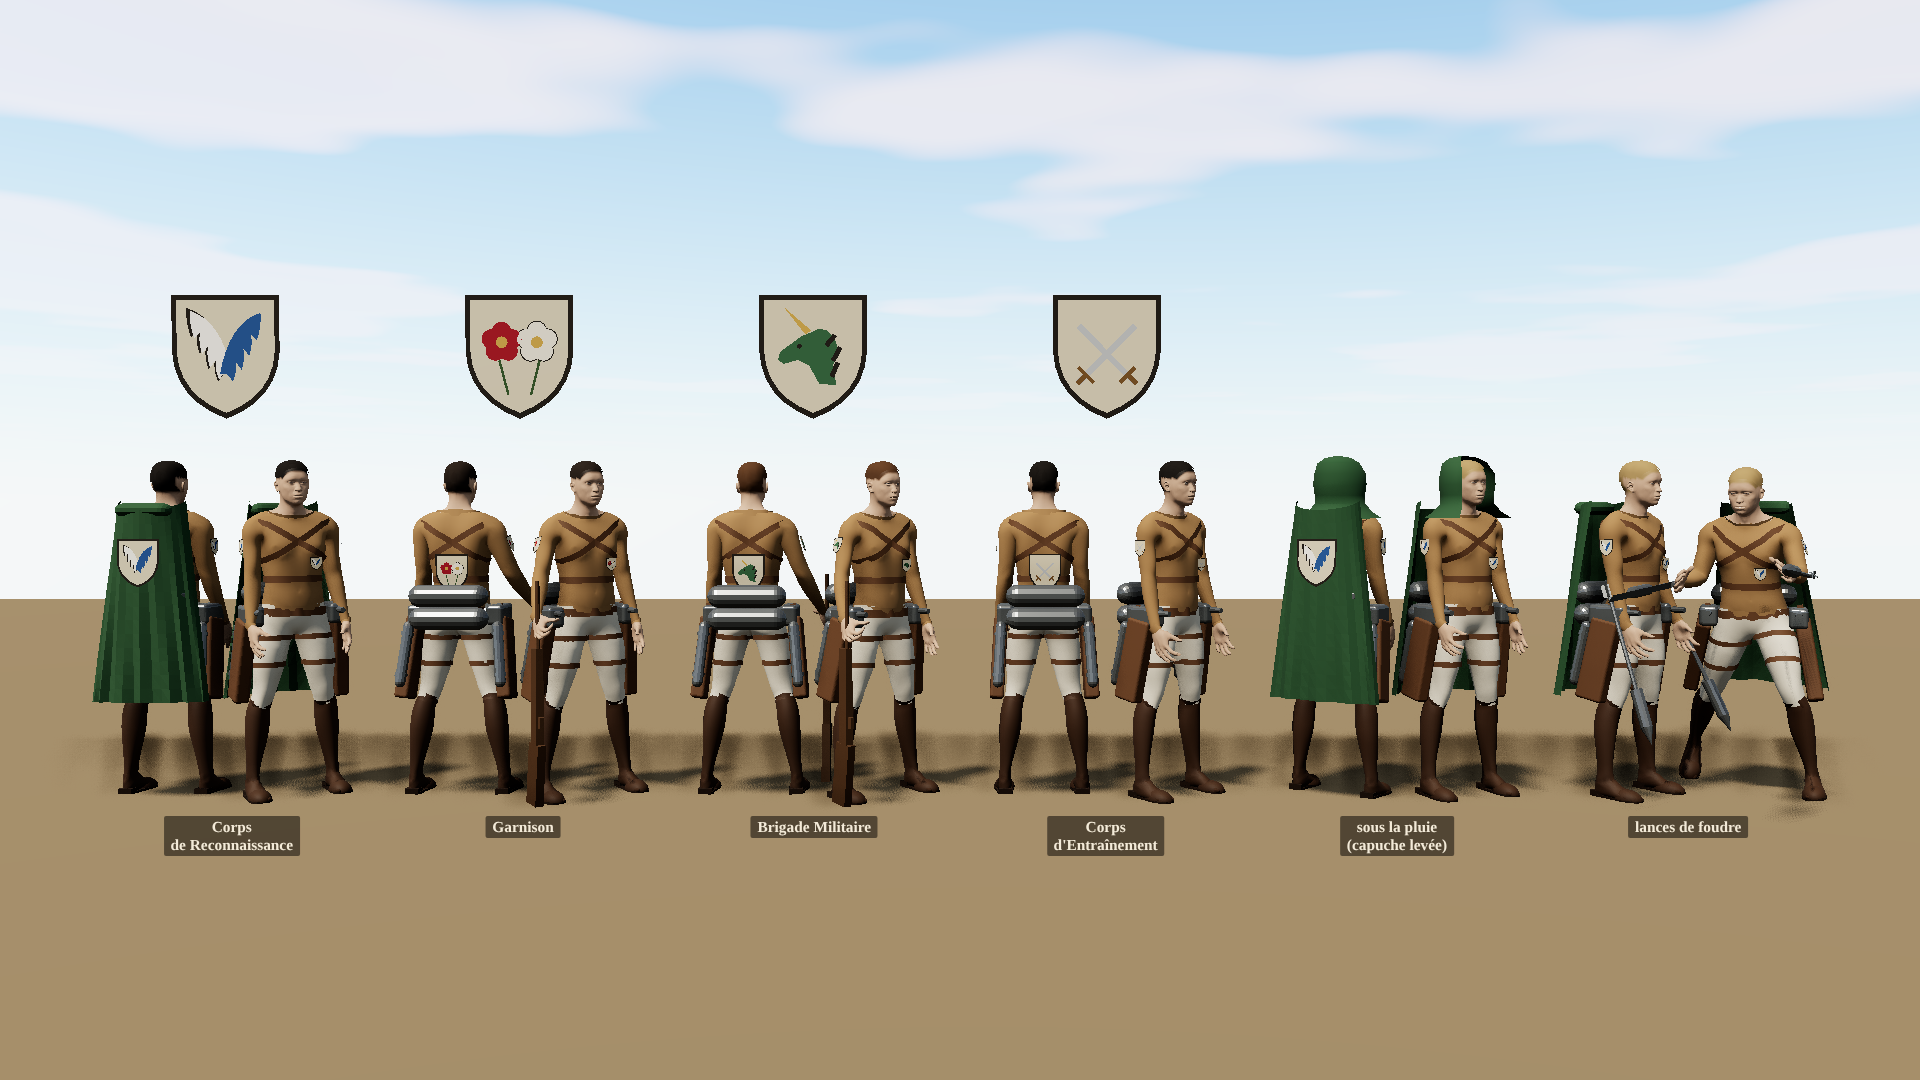
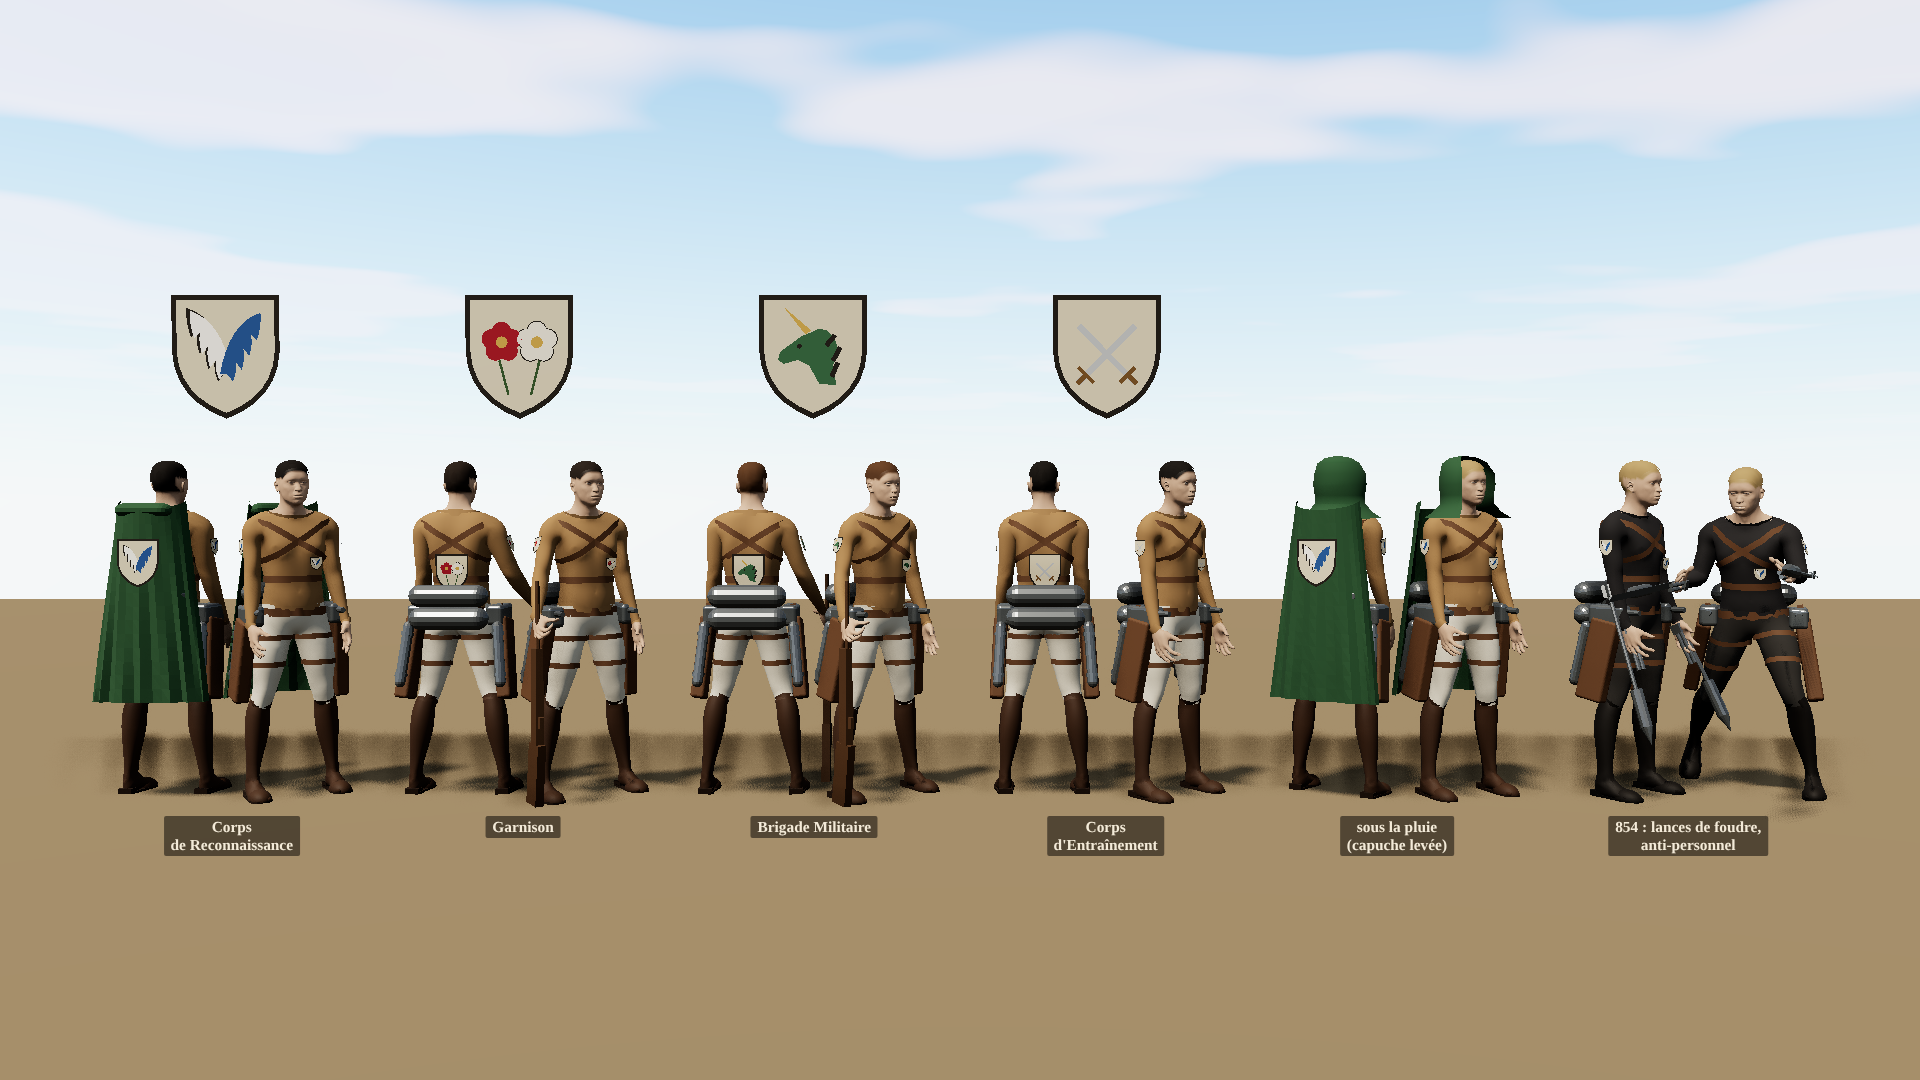
Dette n° 72 (suite) : équipement anti-personnel de 854 sur les poignées
Tenue de 854 : deux canons courts sur chaque poignée de l'équipement de manœuvre
(présence C, forme `?`), toujours portés ; les lames restent pour la coupe. Planche
r3-uniformes : colonne 854 (lances de foudre et canons). Test dédié.

npm run verify : 121 fichiers, 780 tests, EXIT=0.

Claude-Session: https://claude.ai/code/session_01QkVHPRrYAvmotTxhToJVAL

Changed region(s): [[0.8125, 0.4583, 0.9688, 0.7944]]

diff --git a/src/render/tactical3d/humanSoldier.ts b/src/render/tactical3d/humanSoldier.ts
@@ -214,6 +214,15 @@ export function buildHumanSoldier(t: HumanTemplate, seed: number, mats: SoldierM
     attach(`hand_${side}`, holder, hand.clone().addScaledVector(dir, 0.07 * k));
     holder.add(piece(gear("lame"), mats.steel, "lame"));
     blades.push(holder);
+    // Dette n° 72 : équipement anti-personnel de 854 (présence : C ; forme : ?) : deux canons courts sur la poignée, toujours
+    // portés (ils font partie de la poignée), dans l'axe de l'avant-bras.
+    if (outfit?.anti_personnel) {
+      const ap = new Object3D();
+      ap.name = "canons-ap";
+      ap.quaternion.copy(holder.quaternion);
+      attach(`hand_${side}`, ap, hand.clone().addScaledVector(dir, 0.04 * k));
+      ap.add(piece(gear("canons_ap"), mats.steel, "canons-ap"));
+    }
     // Dette n° 72 : lance de foudre le long de l'avant-bras (cachée tant que le soldat n'en porte pas : `setSpears`).
     const elbow = J(`lowerarm_${side}`);
     const spear = new Object3D();
@@ -592,7 +601,7 @@ export function buildHairCap(body: HumanBody, mat: Material, thickness: number, 
 
 // ——— Équipement du projet (formes de R1, refaites plus fines) ———
 
-type Gear = "reservoir" | "lanceur" | "fourreau" | "lame" | "bonbonne" | "lance";
+type Gear = "reservoir" | "lanceur" | "fourreau" | "lame" | "bonbonne" | "lance" | "canons_ap";
 const gearCache = new Map<Gear, BufferGeometry>();
 const at = (g: BufferGeometry, x: number, y: number, z: number, rx = 0, ry = 0, rz = 0): BufferGeometry =>
   g.applyMatrix4(new Matrix4().compose(new Vector3(x, y, z), new Quaternion().setFromEuler(new Euler(rx, ry, rz)), new Vector3(1, 1, 1)));
@@ -642,6 +651,16 @@ export function gear(k: Gear): BufferGeometry {
         at(new BoxGeometry(0.004, 0.07, 0.04), 0, 0.04, 0.02),
         at(new BoxGeometry(0.004, 0.07, 0.04), 0, 0.04, -0.02, 0, (2 * Math.PI) / 3, 0),
         at(new BoxGeometry(0.004, 0.07, 0.04), 0, 0.04, -0.02, 0, (-2 * Math.PI) / 3, 0),
+      ]);
+      break;
+    case "canons_ap":
+      // Canons de l'équipement anti-personnel (dette n° 72 ; forme redessinée par le projet : ?) : deux tubes courts accolés
+      // au-dessus de la poignée, une culasse et un pontet.
+      g = merge([
+        at(new CylinderGeometry(0.011, 0.011, 0.2, 10), 0.012, 0.1, 0.03),
+        at(new CylinderGeometry(0.011, 0.011, 0.2, 10), -0.012, 0.1, 0.03),
+        at(new BoxGeometry(0.05, 0.05, 0.035), 0, 0.0, 0.03),
+        at(new BoxGeometry(0.008, 0.035, 0.03), 0, -0.01, -0.005),
       ]);
       break;
     case "lame": {

diff --git a/src/render/tactical3d/r3Sheets.ts b/src/render/tactical3d/r3Sheets.ts
@@ -24,7 +24,7 @@ import { puffTexture, titanSkinTexture } from "./textures";
  * - r3-visages : six têtes de Titans de près (dents, yeux, expressions, deux peaux) ;
  * - r3-soldats : les sept tenues de face, puis de dos ;
  * - r3-uniformes (dette n° 72) : les quatre corps de Paradis de dos et de trois quarts, emblèmes agrandis au-dessus, et la
- *   cape sous la pluie (capuche levée) et les lances de foudre ;
+ *   cape sous la pluie (capuche levée), et la tenue de 854 (lances de foudre, équipement anti-personnel) ;
  * - r3-ceremonie (dette n° 72) : recrues en rangs au salut, un instructeur face à elles ;
  * - r3-fantassins (dette n° 62) : officiers de Paradis (Garnison, Brigade Militaire), Marley, Alliés et Hizuru ;
  * - r3-poses : soldats (marche, course, chute, coupe, tir, recharge, commandement, mort) et Titans ramenés à 2,4 m (marche, course, attaque,
@@ -211,18 +211,19 @@ export function buildR3Sheet(sheet: string, scene: Scene, t: HumanTemplate, eyeM
       s.setPose("attente", time);
     }
     out.labels.push({ text: "sous la pluie\n(capuche levée)", at: new Vector3(2.25, -0.12, 0) });
-    // Lances de foudre le long des avant-bras (dette n° 72), de trois quarts et en vol.
+    // 854 (dette n° 72) : tenue sombre, lances de foudre le long des avant-bras et canons anti-personnel sur les poignées, de
+    // trois quarts et en vol.
     for (const [dx, ry, pose] of [
       [-0.32, 0.6, "attente"],
       [0.32, -0.5, "frappe"],
     ] as const) {
-      const s = soldier("exploration", 71, 1.7);
+      const s = soldier("exploration_854", 71, 1.7);
       s.group.position.set(3.75 + dx, 0, 0);
       s.group.rotation.y = ry;
       s.setPose(pose, time);
       s.setSpears(2);
     }
-    out.labels.push({ text: "lances de foudre", at: new Vector3(3.75, -0.12, 0) });
+    out.labels.push({ text: "854 : lances de foudre,\nanti-personnel", at: new Vector3(3.75, -0.12, 0) });
     out.target.set(0, 1.3, 0);
     out.eye.set(0, 1.5, 7.6);
     out.fov = 40;

diff --git a/tests/render/tactical3d/r3-soldats.test.ts b/tests/render/tactical3d/r3-soldats.test.ts
@@ -231,6 +231,19 @@ describe("soldats de R3 : sept tenues (R3.2, dette n° 72)", () => {
     expect(named(soldiers.get("marley_infanterie") as HumanSoldier, "lance-foudre")).toHaveLength(0);
   });
 
+  it("équipement anti-personnel de 854 (dette n° 72) : deux canons sur chaque poignée, pour la tenue de 854 seulement", () => {
+    const s = soldiers.get("exploration_854") as HumanSoldier;
+    const list = named(s, "canons-ap").filter((o) => (o as unknown as { type: string }).type !== "Mesh");
+    expect(list.map(carrier).sort()).toEqual(["hand_l", "hand_r"]);
+    expect(outfit("exploration_854").anti_personnel).toBe(true);
+    for (const id of OUTFIT_IDS) if (id !== "exploration_854") expect(named(soldiers.get(id) as HumanSoldier, "canons-ap"), id).toHaveLength(0);
+    // Toujours portés (partie de la poignée), au repos comme au combat.
+    for (const pose of ["attente", "frappe", "vol"] as const) {
+      s.setPose(pose, 0.3);
+      expect(list.every((o) => (o as unknown as { visible: boolean }).visible), pose).toBe(true);
+    }
+  });
+
   it("au tir, le fusil est dans les mains (crosse à la main droite, canon vers la main gauche) ; pieds au sol", () => {
     // Fantassins de Paradis (Garnison, dette n° 72) : le fusil passe du dos aux mains pour tirer.
     const g = soldiers.get("garnison") as HumanSoldier;

diff --git a/src/data/artSchemas.ts b/src/data/artSchemas.ts
@@ -304,6 +304,8 @@ const Outfit = z
     coiffe: Headgear.optional(),
     odm: z.boolean(),
     lames: z.enum(["mains", "fourreau"]).optional(),
+    /** Équipement anti-personnel de 854 (dette n° 72) : canons courts sur les poignées de l'équipement de manœuvre. */
+    anti_personnel: z.boolean().optional(),
     fusil: z.enum(["dos", "mains"]).optional(),
     sac: Hex.optional(),
     /** Emblème du corps (dette n° 72) : dos, haut des manches, poche de poitrine ; sur la cape au dos si elle en a une. */

diff --git a/docs/reports/dette.md b/docs/reports/dette.md
@@ -82,7 +82,7 @@ Format : **quoi** — où — gravité (faible / moyenne / forte). Tag `LC-repor
 | 69 | Fonctions P2 du fichier 09 non faites, report confirmé (D-161) : F-LOG-10, F-POL-15, F-TEC-05, F-TIT-10, F-EXP-19, F-CMB-20, F-EVT-05, F-EVT-14, F-SYS-06, F-DEV-03, F-DEV-04 ; F-STR-09, 10, 11, 19 ; F-ECO-17 ; F-LOG-06 ; F-POP-08, 12, 18 ; F-POL-07, 09 ; F-ADV-04, 05, 09 ; F-INT-05 à 09 ; F-TEC-04, 06, 09, 10 ; F-CHR-08, 11, 15, 19 ; F-EXP-08 ; F-CMB-12, 17 ; F-UIX-05, 06, 22 ; F-DEV-02 | `docs/CONFORMITE.md` §5 | moyenne | P10 |
 | 70 | Écarts partiels de l'audit (D-161) : ordres diversion, évacuer, incendier (C-08) ; code des fusées de la Garnison (03 §7) ; menu au clic droit de la carte (04 §3) ; aube et crépuscule en bataille (03 §1, 04 §4) ; anglais partiel (112 clés) ; overlays de debug tactiques (03 §14) ; difficulté sans effet dans la bataille tactique ; 11 bâtiments pour un quota de 25 (05 §3) ; batailles d'expédition sur l'écran 2D (dette n° 46) | `docs/CONFORMITE.md` §7–§8 | moyenne | P10 |
 | 71 | P10.3 : bataille temps réel (341 unités) « prêt » en 4,5 s en qualité basse au rendu logiciel, contre 3 s visés pour la scène tactique (D-93) ; pas d'optimisation pour le rendu logiciel (consigne R1e) : à mesurer sur GPU réel | `npm run smoke:r2` avec `R2_PARTIES=1 R2_QUALITE=bas` ; `docs/reports/P10-mesures-r2-bas.log` | moyenne | P10 |
-| 72 | Tenues des soldats à refaire selon `CLAUDE.md` § Style des soldats (décision de l'utilisateur, 2026-10-10) : uniforme commun brun clair et blanc, harnais de sangles, emblèmes des quatre corps redessinés, cape verte du Corps de Reconnaissance, équipement de manœuvre détaillé, salut et cérémonies, tenues de 854 et de Marley ; remplace les tenues inventées de R3 | `src/render/tactical3d/humanOutfit.ts`, `data/art/`, planches `r3-soldats` | forte | P10 (demande de l'utilisateur) ; **fait pour l'essentiel** (D-165 : uniforme commun, emblèmes, cape et capuche de pluie, bonbonnes, salut, cérémonie, brassard, foule de bataille) ; reste : équipement anti-personnel, cérémonie des médailles (Historia : aucune figure de la reine), capuche liée à une météo de bataille (absente) ; semelles, talons et bouts des bottes faits (dettes-suite) ; lances de foudre, tenue sombre de 854 (D-170) remise des diplômes (E09) et assemblée d'Erwin (choix du corps) en 3D depuis leurs dossiers, sur la place d'armes d'un camp (E24), **ajoutées** (moyenne) |
+| 72 | Tenues des soldats à refaire selon `CLAUDE.md` § Style des soldats (décision de l'utilisateur, 2026-10-10) : uniforme commun brun clair et blanc, harnais de sangles, emblèmes des quatre corps redessinés, cape verte du Corps de Reconnaissance, équipement de manœuvre détaillé, salut et cérémonies, tenues de 854 et de Marley ; remplace les tenues inventées de R3 | `src/render/tactical3d/humanOutfit.ts`, `data/art/`, planches `r3-soldats` | forte | P10 (demande de l'utilisateur) ; **fait pour l'essentiel** (D-165 : uniforme commun, emblèmes, cape et capuche de pluie, bonbonnes, salut, cérémonie, brassard, foule de bataille) ; reste : cérémonie des médailles (Historia : aucune figure de la reine), capuche liée à une météo de bataille (absente) ; semelles, talons et bouts des bottes, équipement anti-personnel de 854 faits (dettes-suite) ; lances de foudre, tenue sombre de 854 (D-170) remise des diplômes (E09) et assemblée d'Erwin (choix du corps) en 3D depuis leurs dossiers, sur la place d'armes d'un camp (E24), **ajoutées** (moyenne) |
 | 73 | `smoke:r1` (essai de rendu de R1) au rendu logiciel : le contrôle « suivi d'escouade » compte 3 s réelles alors que le suivi avance par image (≈ 2 s par image en qualité moyenne : cible à 4,5 m au lieu de 2,5 m) ; les captures en 3840×2160 dépassent 40 min. (`smoke:r1b` passe : 513 contrôles en ≈ 45 min.) À rejouer sur GPU réel | `src/tools/smoke-r1.ts`, `docs/reports/P10-smoke-r1.log` | faible | P10 |
 | 74 | Bataille temps réel : décor en boîtes à toits à deux pans, façades unies sans fenêtres ni matériaux du profil de style (seul le sol a une photo) ; écart avec la priorité « scènes et environnements réalistes et travaillés » (CLAUDE.md, R1c) | `src/render/tactical3d/battle/world.ts` ; `r2-suivi-1920`, `r3-bataille-paradis-1366` | forte | contrôle de conformité de la 3D (`docs/reports/CONFORMITE-3D.md`) ; **corrigé** (D-166 : façades, fenêtres, toits et cheminées du profil de style, pavés en ville) ; reste le mur autour de la ville (n° 55) |
 | 75 | Bataille 3D : ni bâtiment translucide quand il masque l'unité survolée ou choisie (15 C-06, 18 R4.4), ni icônes gaz / lames / stress au-dessus des escouades (04 §4, 15 C-17) | `src/render/tactical3d/battle/view3d.ts` | moyenne | contrôle de conformité de la 3D ; **corrigé** (D-167 : trame translucide des bâtiments qui cachent les unités choisies ; jauges gaz, lames, stress des escouades choisies ou en alerte) ; survol non traité (pas de survol d'unité dans l'interface) |

diff --git a/docs/CANON_CHECK.md b/docs/CANON_CHECK.md
@@ -220,7 +220,7 @@ Voir 11 §9 et 01 §10 : dates de mort d'Eld, Gunther, Oluo, Petra, Moblit, Past
 | Salut : poing droit fermé sur le cœur, main gauche dans le dos | C | `humanAnim.ts` (`salut`) | mise en scène de la planche `r3-ceremonie` : A |
 | Brassard des Eldiens de Marley à étoile à neuf branches | C ; bras et couleurs ? | `data/art/figures_r3.json` (`marley_infanterie`) | Q18 |
 | Uniformes de l'armée de Marley, fusils de la Garnison et de la Brigade Militaire | A | idem | choix de jeu, jamais présentés comme canon |
-| Tenues sombres du Corps en 854 ; lances de foudre | C (présence) ; coupe, teintes, absence de cape `?` ; forme des lances A | `data/art/figures_r3.json` (`exploration_854`), `humanSoldier.ts` | D-170 ; Q18 |
+| Tenues sombres du Corps en 854 ; lances de foudre ; équipement anti-personnel | C (présence) ; coupe, teintes, absence de cape `?` ; forme des lances A ; forme des canons anti-personnel `?` | `data/art/figures_r3.json` (`exploration_854`), `humanSoldier.ts` | D-170 ; Q18 |
 | Brigade Militaire à l'intérieur du mur Sina ; officiers de Paradis au même uniforme que leurs hommes | C (rôle, uniforme commun) ; règle de rendu par région, officier sans fusil, pistolet A | `data/art/figures_r3.json` (`fantassins_paradis`, `variantes`) | D-171 |
 | Uniformes des Alliés et de la garde d'Hizuru | ? (teintes sable et bleu nuit choisies par le projet) | idem (`variantes`) | D-171 ; Q18 |
 

diff --git a/docs/reports/dettes-suite.md b/docs/reports/dettes-suite.md
@@ -82,3 +82,14 @@ Les corrections de la 3D (n° 74, 75, 55) sont décrites dans `CONFORMITE-3D.md`
   bout arrondi de face ; plus d'orteils lisibles.
   - Défauts : bout de botte un peu gonflé (forme de sabot) ; semelle plate sans cambrure ; jointure nette entre la
     semelle avant et la semelle arrière quand le pied plie ; quelques points de peau qui percent encore sur un pied.
+
+## Dette n° 72 (suite) : équipement anti-personnel de 854
+- Tenue de 854 : deux canons courts accolés sur chaque poignée de l'équipement de manœuvre, toujours portés (présence C,
+  forme `?`, Q18) ; les lames restent pour la coupe que joue la simulation (A). Planche `r3-uniformes` : la dernière
+  colonne montre la tenue de 854 avec lances de foudre et canons.
+- `npm run verify` (`dette72ap-verify.log`) : « Tests  780 passed (780) », `canon:check` conforme, `EXIT=0` ; planche
+  (`dette72ap-planche.log`) : « OK  r3-uniformes », `EXIT=0`.
+- **`r3-uniformes.png`** (colonne 854, recadrée) : deux soldats en tenue sombre, Ailes de la liberté aux manches et à la
+  poitrine, lances le long des avant-bras, petits canons noirs aux poignées.
+  - Défauts : canons très petits à cette distance ; pointes des lances qui pendent sous les mains ; lames peu lisibles
+    sur le fond clair ; bouteilles de gaz qui dépassent des hanches.

diff --git a/docs/PROGRESS.md b/docs/PROGRESS.md
@@ -4,7 +4,7 @@
 |---|---|
 | Phase | **PACK terminée** (application Windows Electron : `npm run package:win`, `smoke:pack` ; D-164). Feuille de route V2 achevée (N1 à N3). Suite : dette n° 72 (tenues des soldats, demande de l'utilisateur) et contrôle de conformité de la 3D, puis dettes. |
 | Tâche | Dettes n° 74, 75, 55 (décor), 56, 57, 58, 11, 38, 13, 14, 62, 65 corrigées ; 31 et 45 en partie (D-166 à D-171) ; dettes suivantes |
-| Dernier `npm run verify` | 2026-10-11 : code 0 ; 121 fichiers, 779 tests (`docs/reports/dette72s-verify.log`) |
+| Dernier `npm run verify` | 2026-10-11 : code 0 ; 121 fichiers, 780 tests (`docs/reports/dette72ap-verify.log`) |
 | Prochaine étape | PROCHAINE ACTION EXACTE : dettes restantes par gravité (hors `src/sim`, figé depuis R2), puis résumé final des 3 jours le 2026-10-12 vers 19:35 UTC, sur `claude/intelligent-feynman-8ekib4` (mandat autonome jusqu'au 2026-10-12 19:33 UTC, D-148). À faire par Gabriel : `npm run package:win` sur Windows (`docs/LANCER_SUR_WINDOWS.md`) ; mesures GPU (dettes n° 49, 64, 71, 73) |
 
 ## Mandat autonome de trois jours (2026-10-09 → 2026-10-12, D-148)
